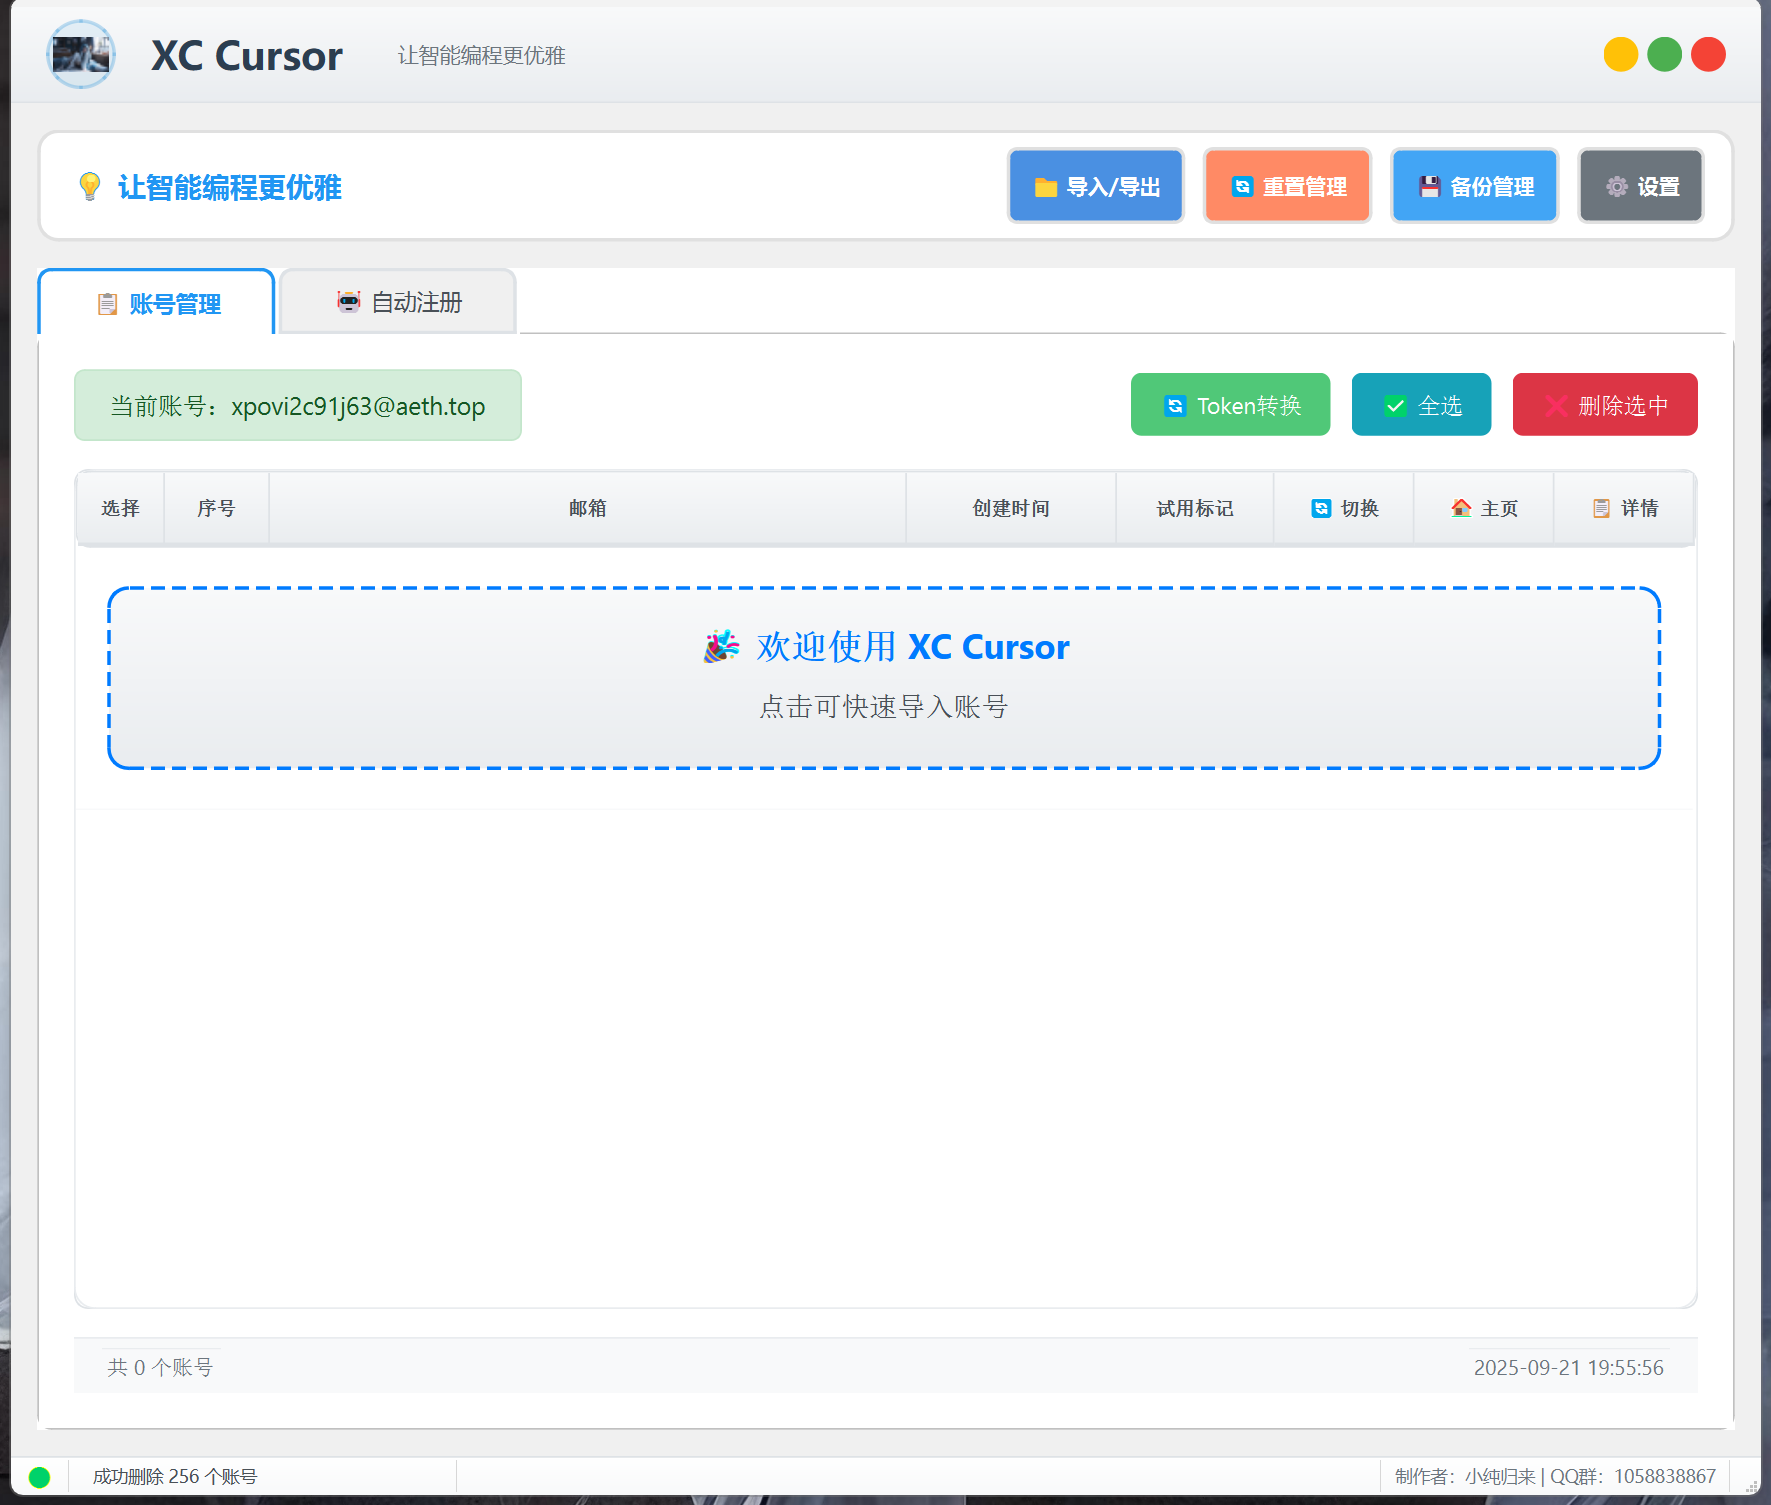
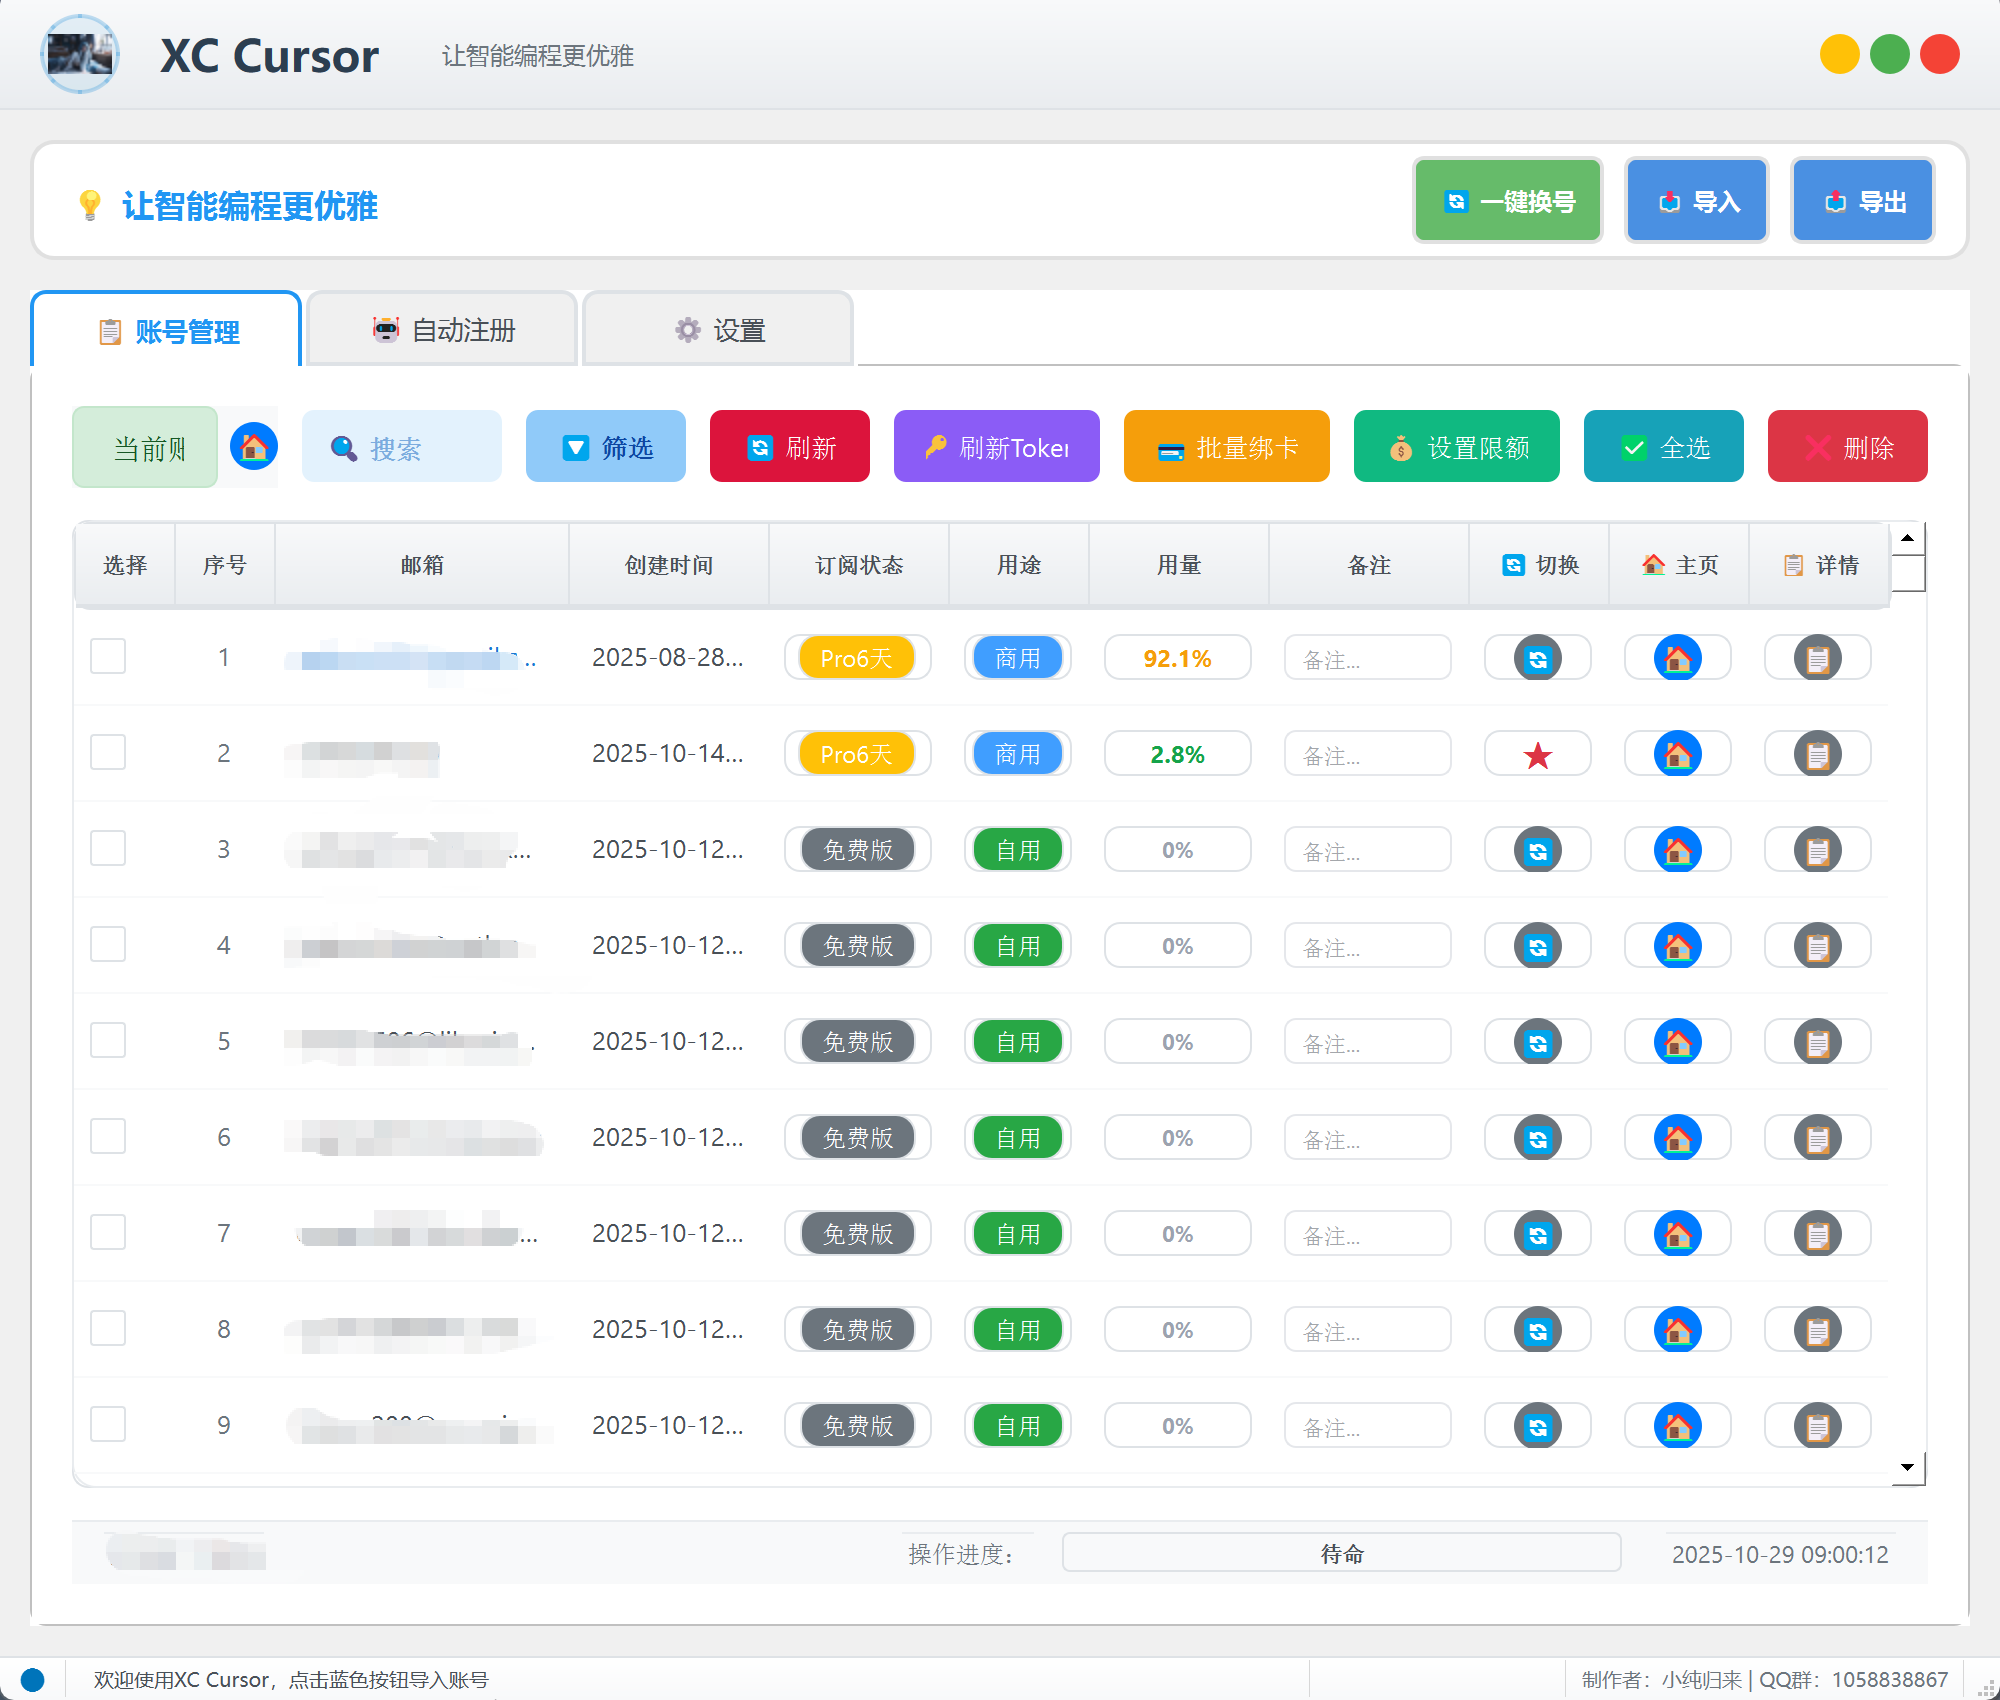
更新

diff --git a/README.md b/README.md
@@ -1,4 +1,4 @@
-# 🚀 XC-Cursor - 让智能编程更优雅- 最新版本和激活码请加交流群获取
+# 🚀 XC-Cursor - 让智能编程更优雅- 激活码请群公告获取，git不再更新
 
 <div align="center" style="margin: 20px 0;">
 <table>
@@ -118,6 +118,8 @@
 <td align="center" style="border: 2px solid #1890ff; background: #f6ffff; padding: 20px; border-radius: 10px;">
 
 ### 💬 **QQ交流群：1058838867**  
+<img src="assets/qq-group-qrcode.png" alt="QQ群二维码" width="260" />
+
 🎯 **使用教程和问题解答 • 版本更新通知 • 用户经验交流**
 
 </td>
